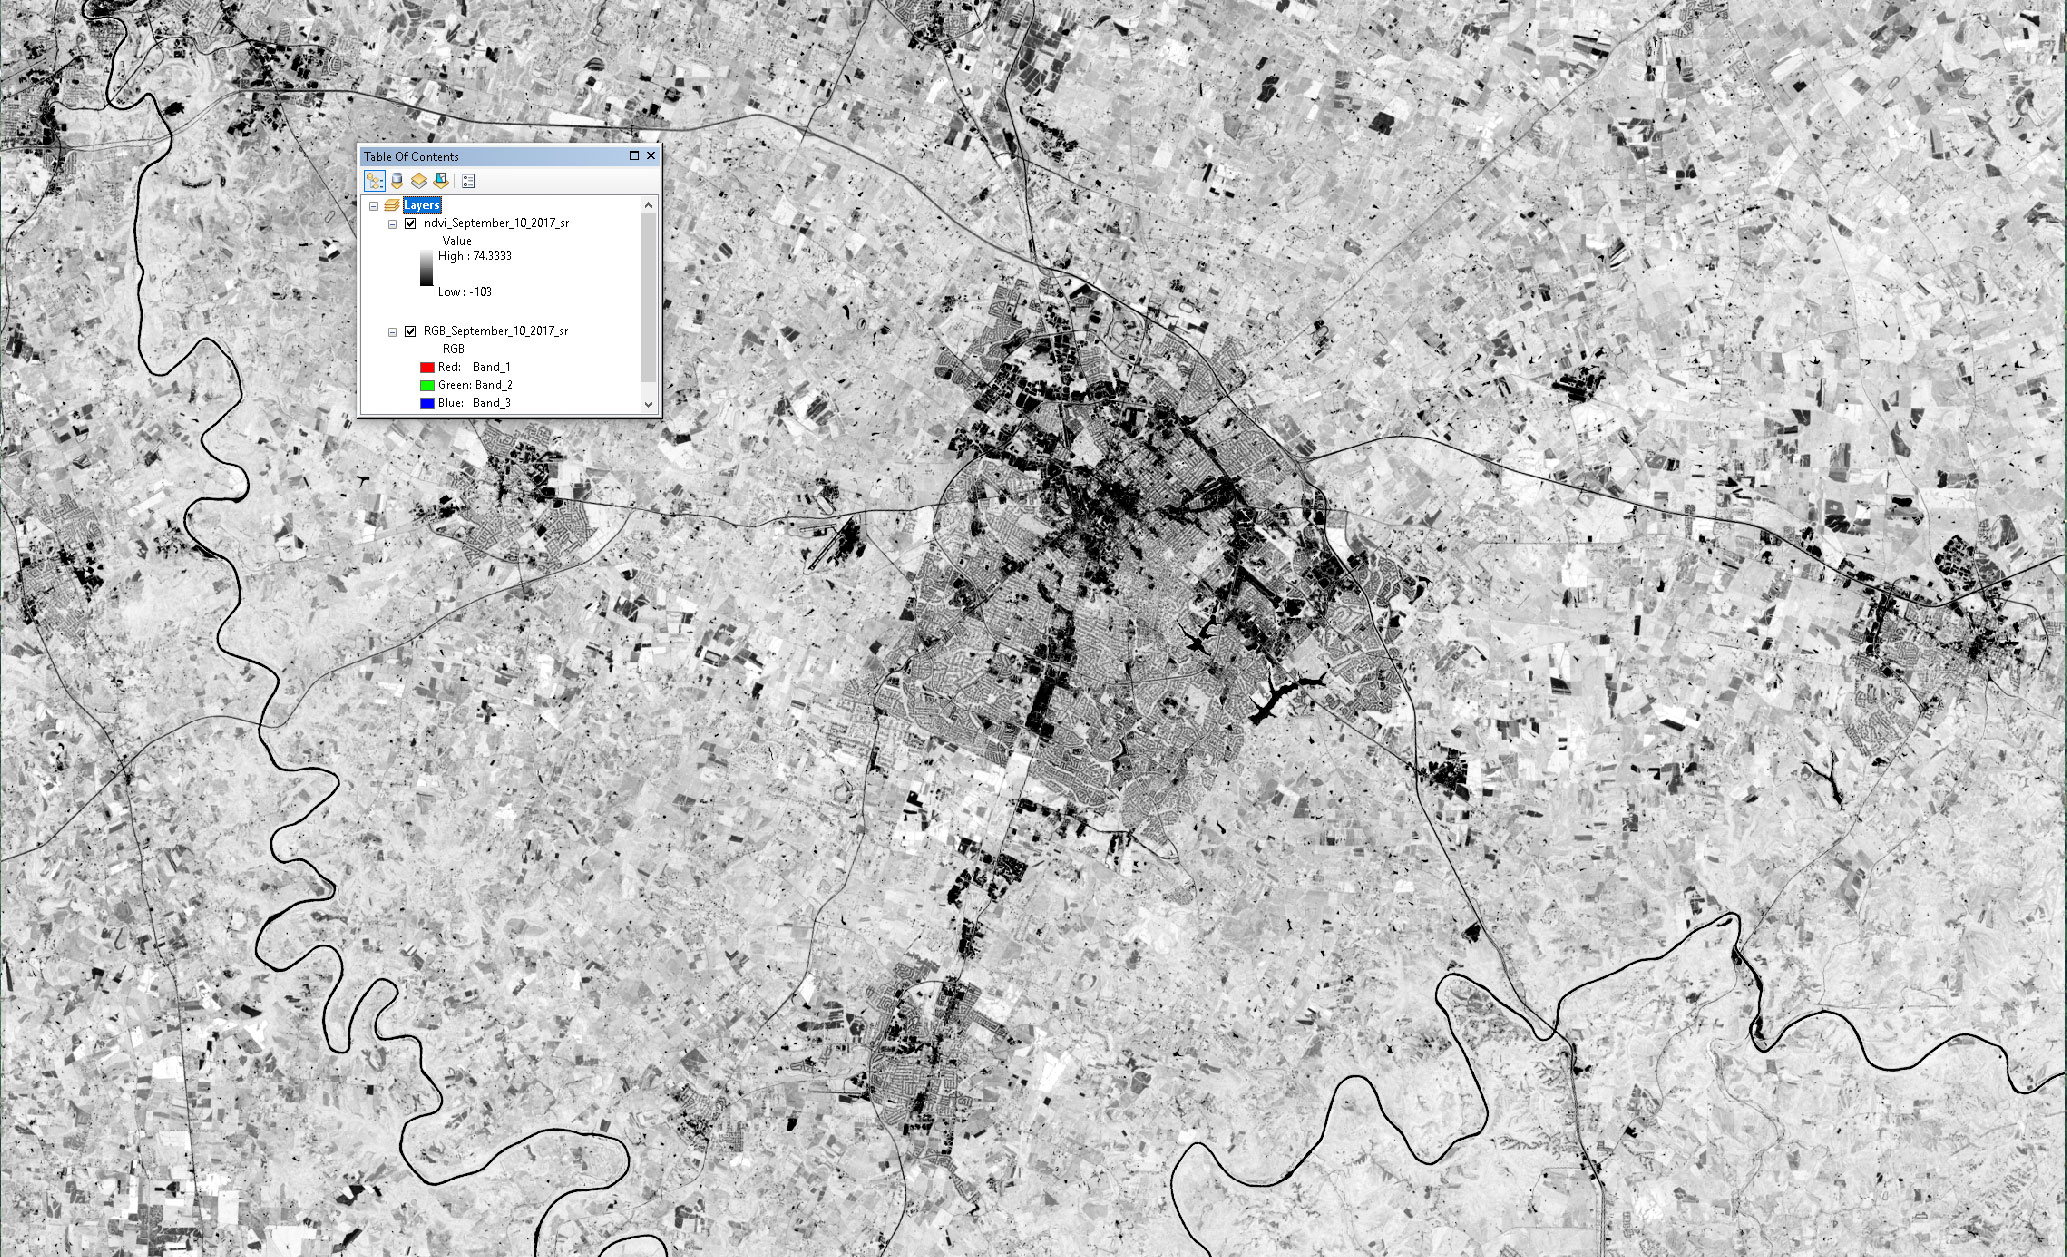
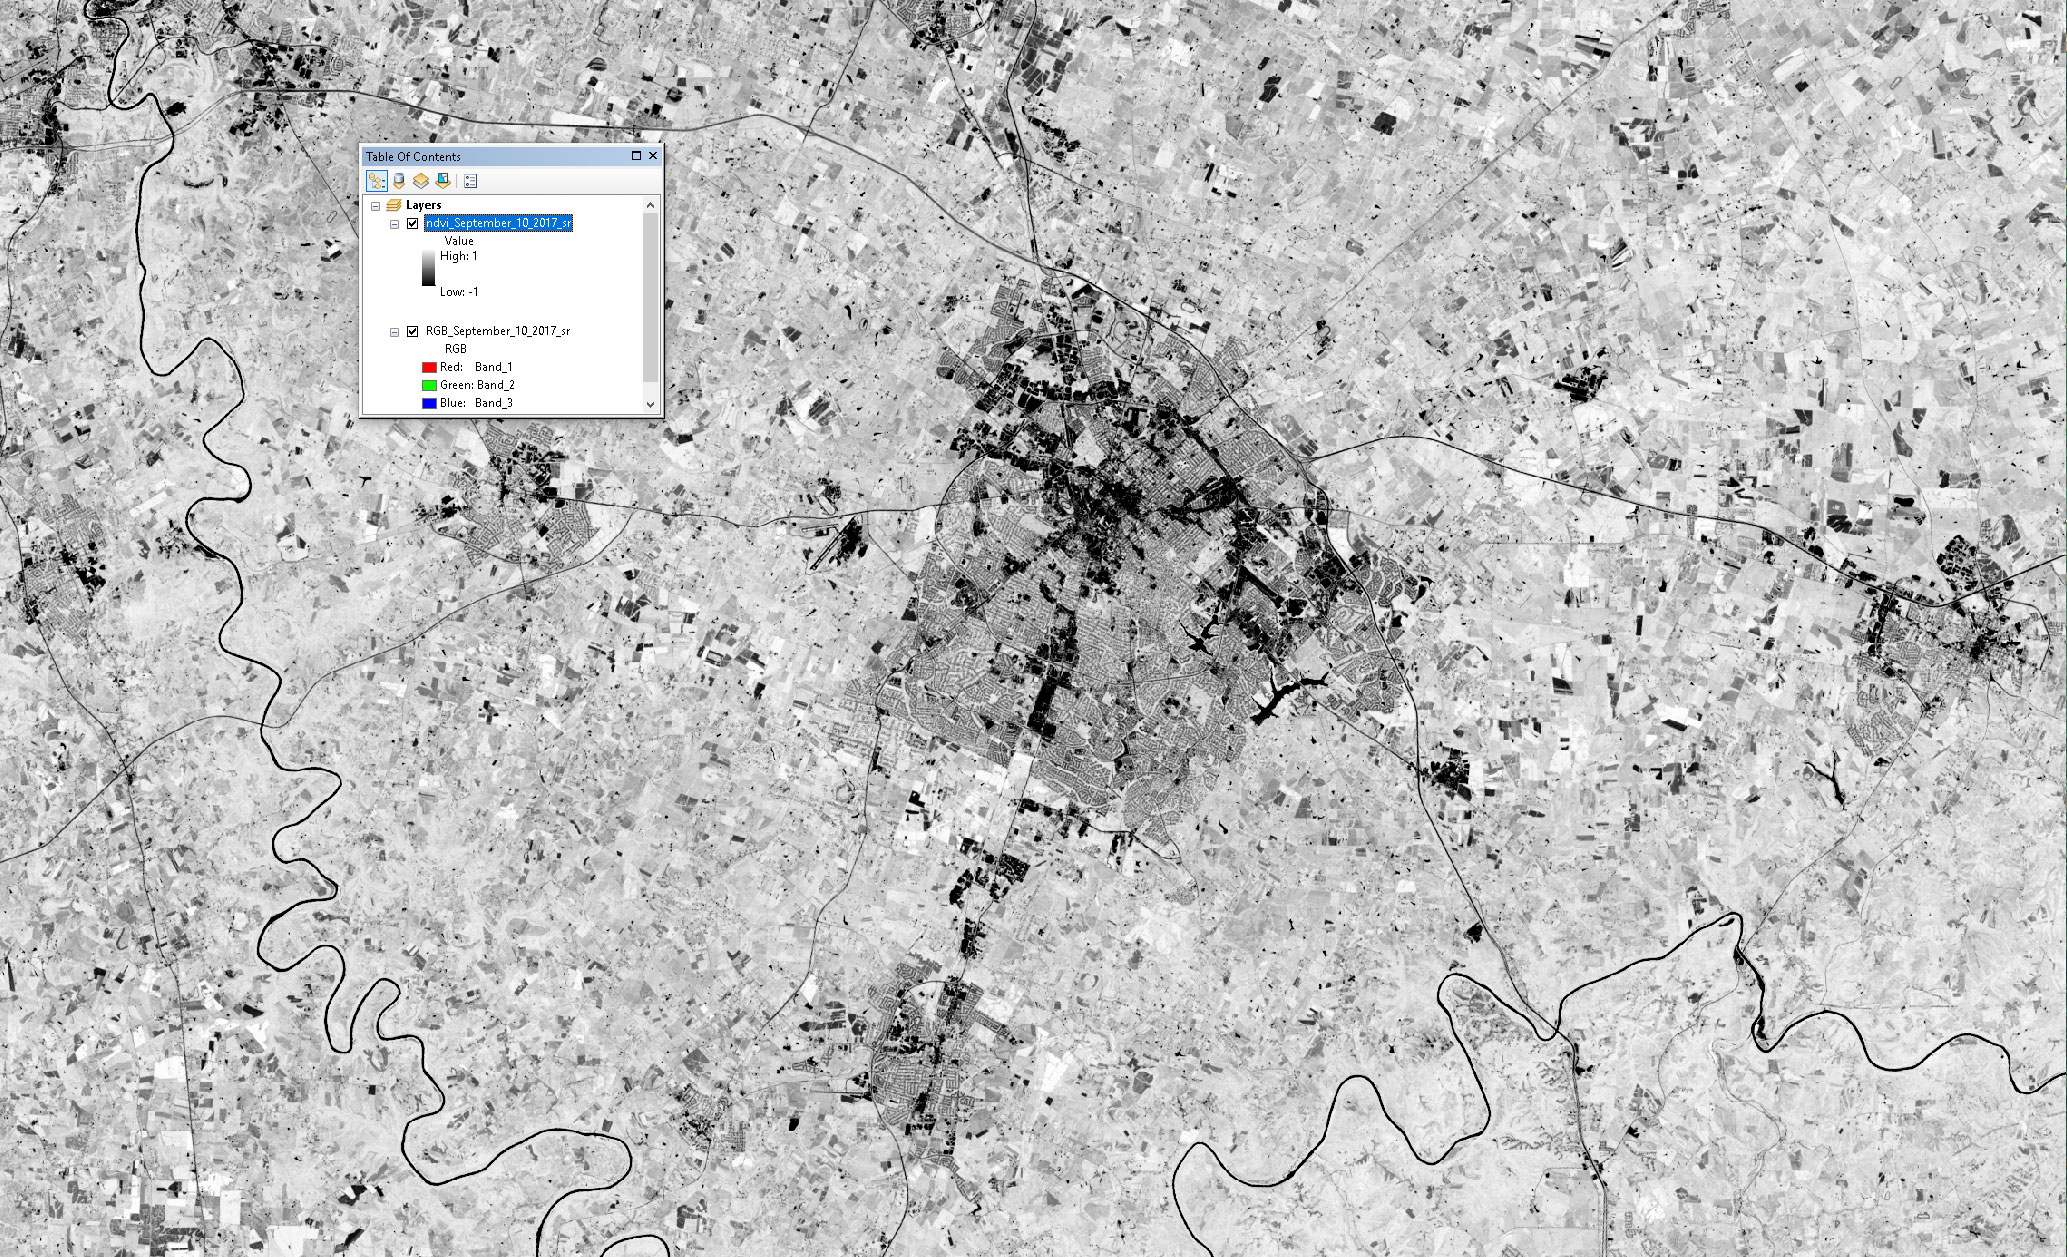
add corrected ndvi values

Changed region(s): [[0.0, 0.0, 1.0, 1.0]]

diff --git a/PITCHME.md b/PITCHME.md
@@ -242,8 +242,15 @@ NDVI = (NIR – R) / (NIR + R)
 ## Map Algebra
 * If raster bands are integer data type, we need to convert them to float data type.
 ```
-Float(NIR – R)/ Float(NIR + R)
+Float(NIR – R)/Float(NIR + R)
 ```
+
+#HSLIDE
+## NDVI output
+* Range from -1 to 1.
+* < 0 is not vegetation
+* > 0.5 (approx) tree canopy
+
 
 #HSLIDE
 # NDVI
@@ -265,10 +272,6 @@ Float(NIR – R)/ Float(NIR + R)
 
 #HSLIDE?image=images/raster-data/18.jpg
 
-#HSLIDE
-## September 10, 2017
-### Southern Bluegrass country
-Note: The following three slides used the Landsat 8 surface reflectance raster bands
 
 
 #HSLIDE
